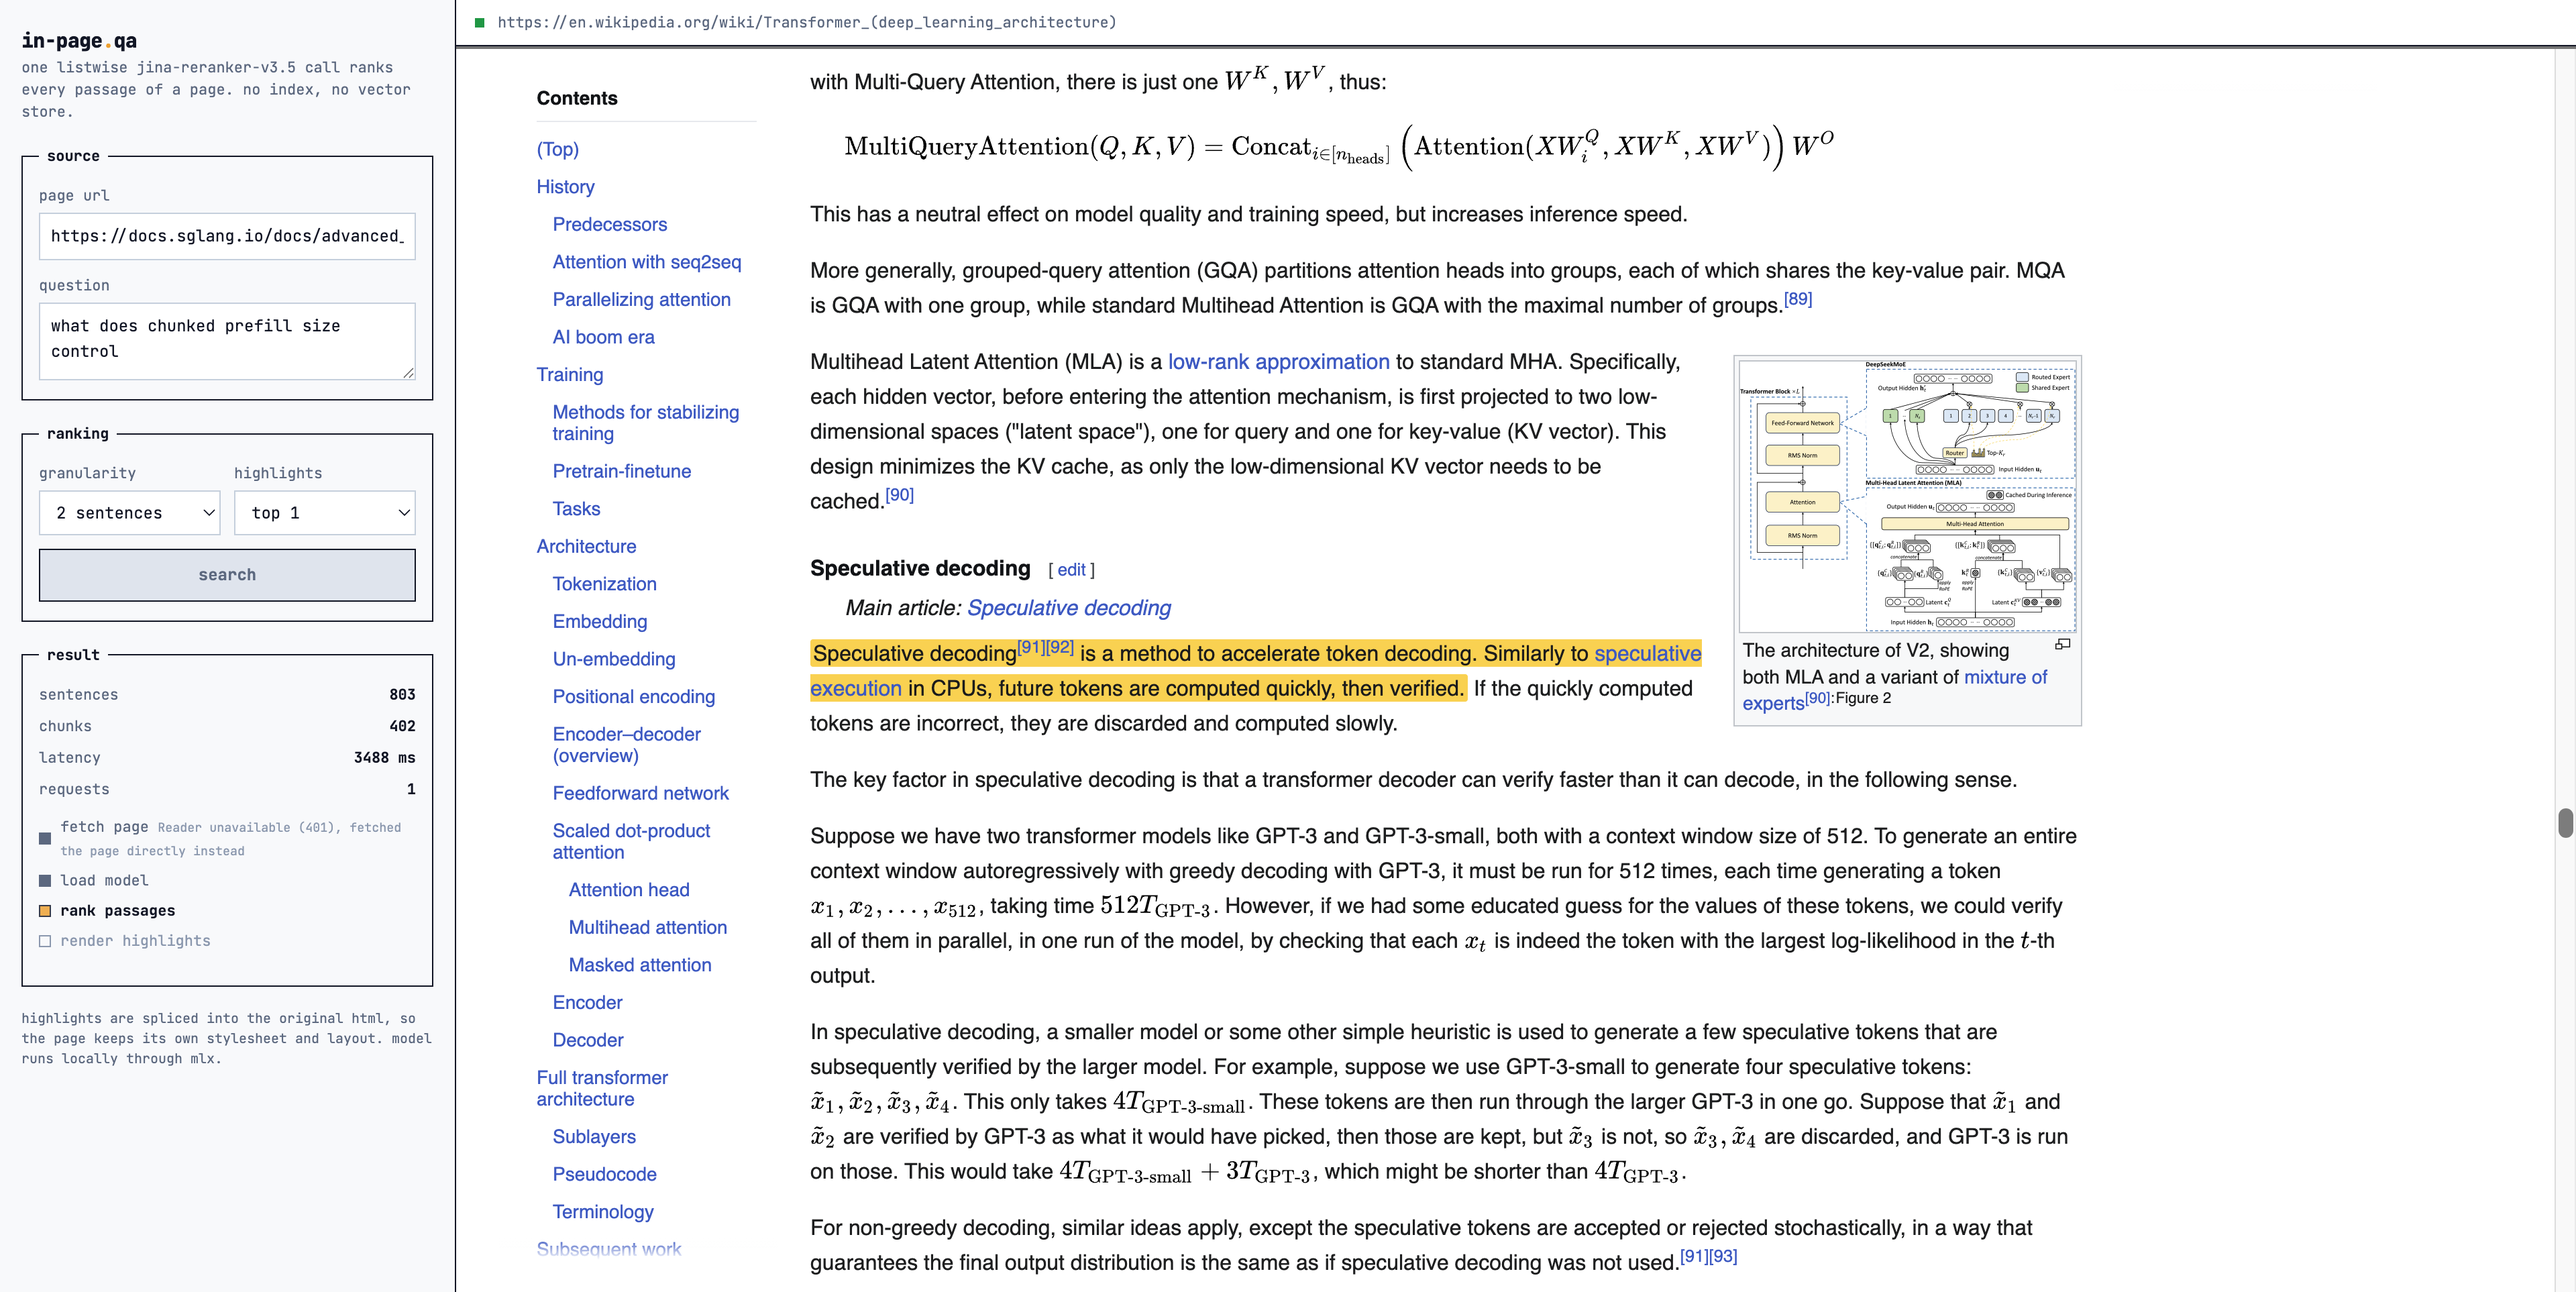
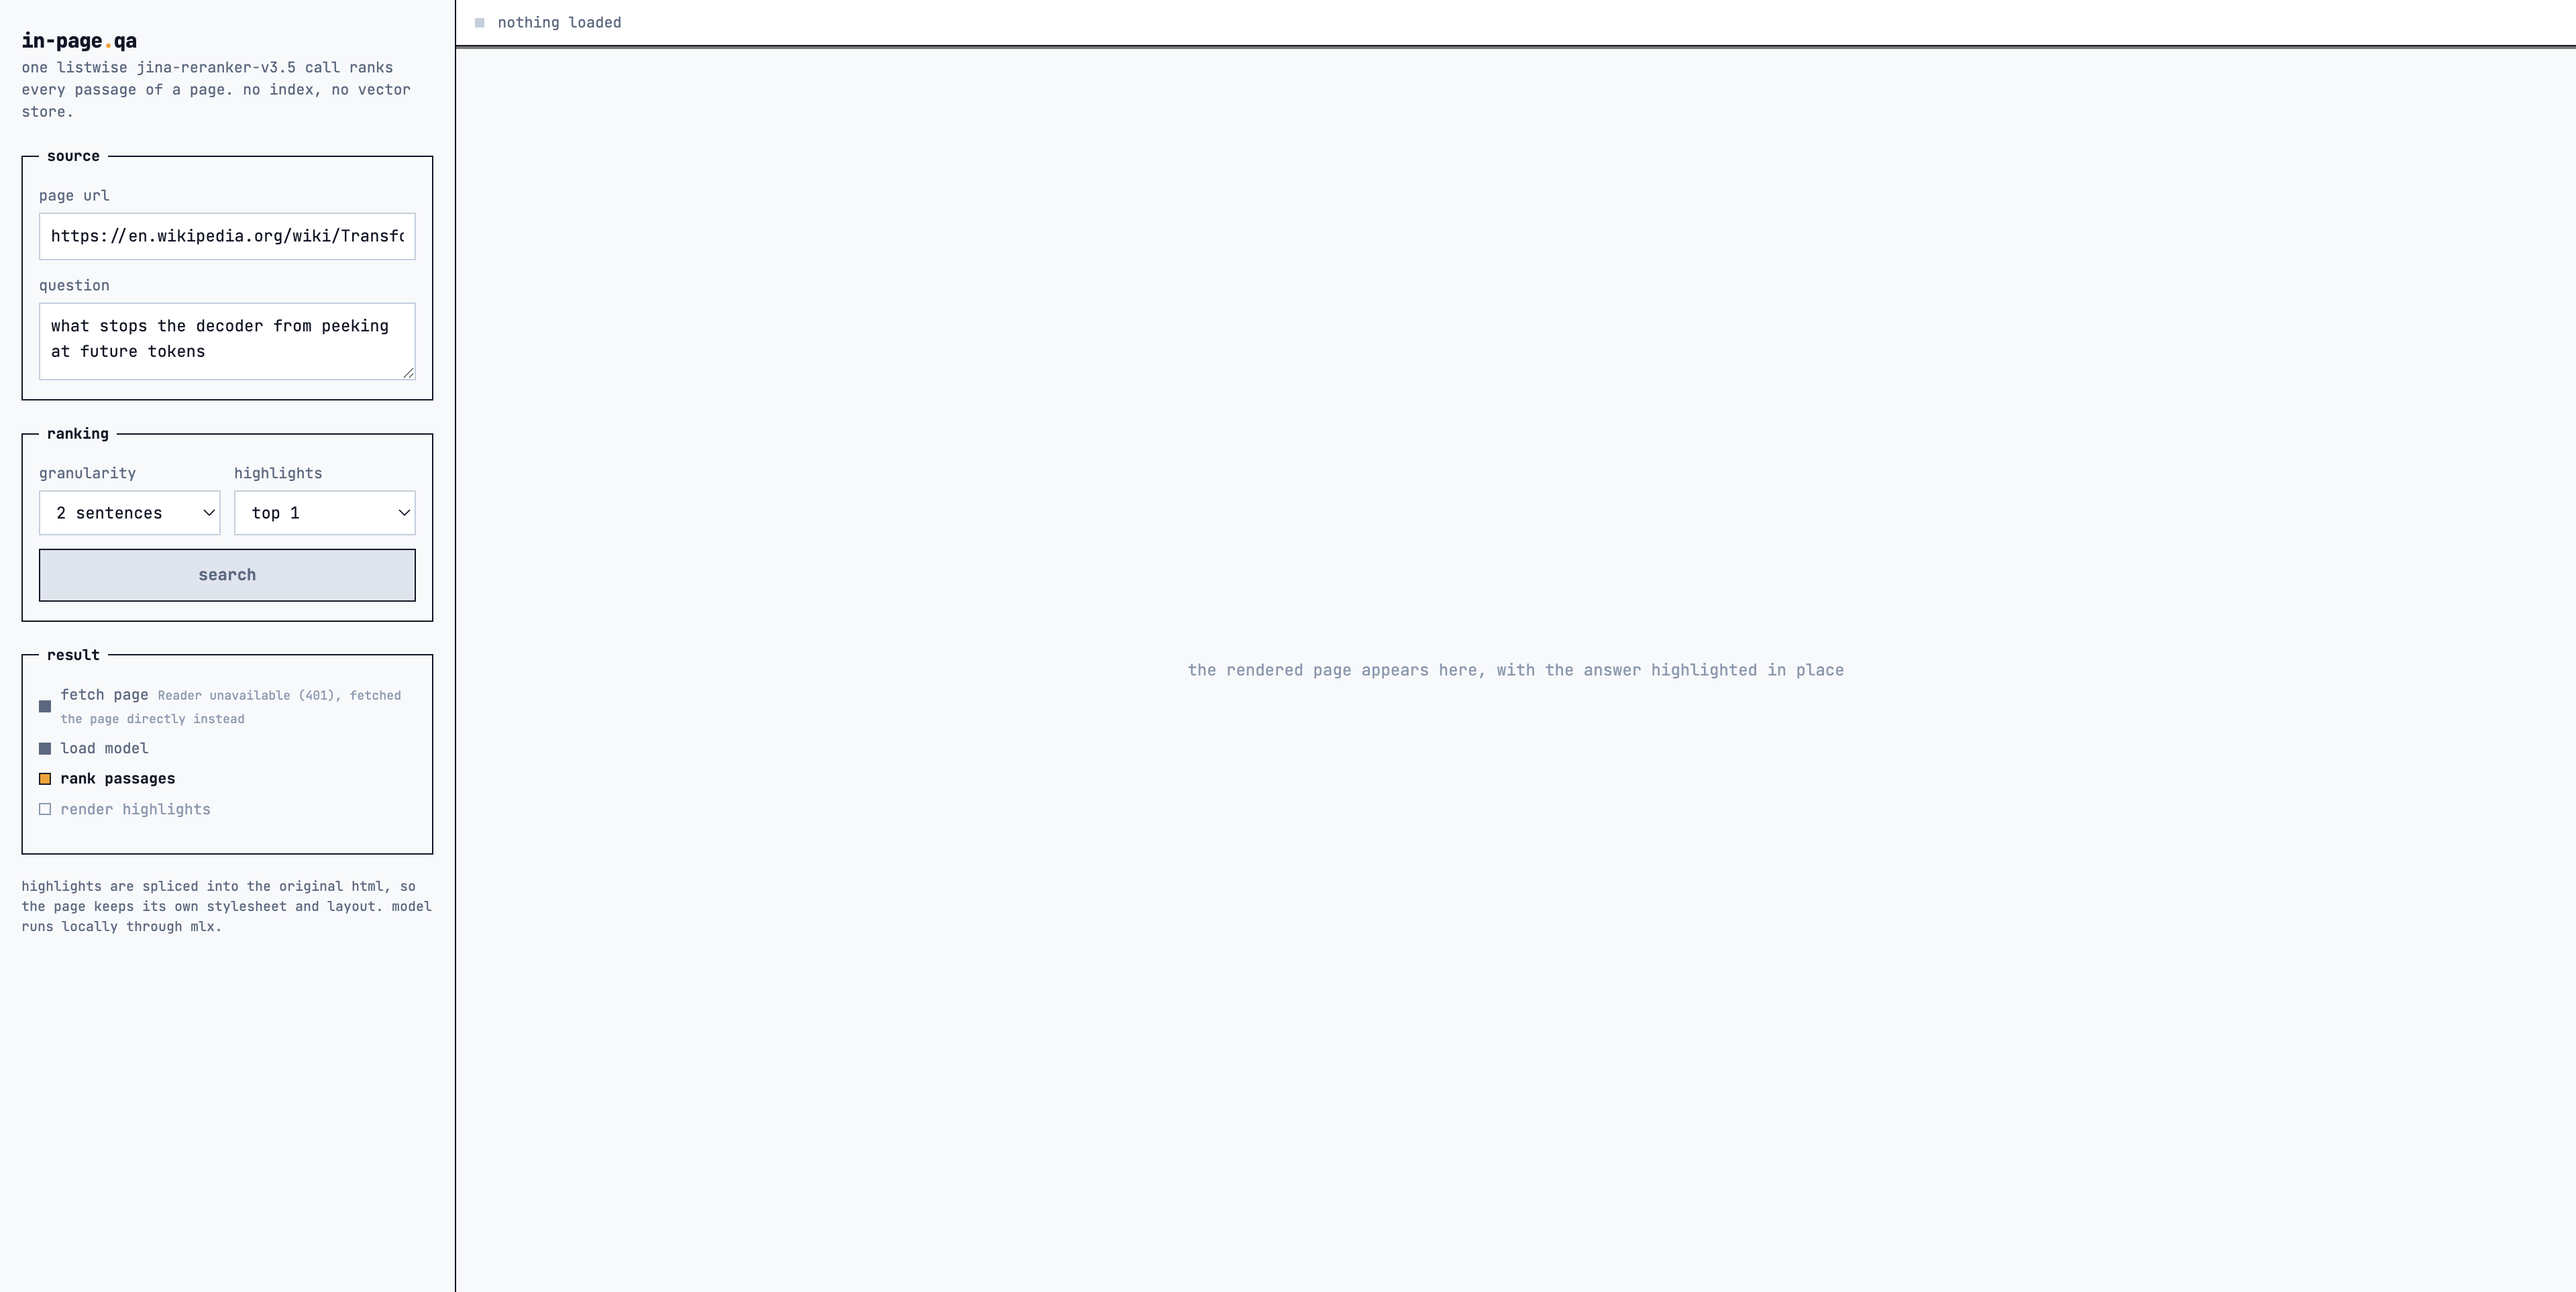
Keep the result panel out of the way until there is a result
It used to sit there from first paint showing four em dashes, which is a box
that takes up space to say nothing. It now appears with the progress list when
a search starts, and the statistics inside it only once they have values, so
nothing on screen is a placeholder.

diff --git a/inpage/static/index.html b/inpage/static/index.html
@@ -41,6 +41,8 @@
     margin: 0; padding: 12px 12px 14px;
     display: flex; flex-direction: column; gap: 10px;
   }
+  /* display:flex would otherwise beat the hidden attribute */
+  fieldset[hidden] { display: none; }
   legend { padding: 0 6px; font-size: 11px; font-weight: 700; }
 
   label.row { display: flex; flex-direction: column; gap: 4px; font-size: 11px; color: var(--muted); }
@@ -66,6 +68,7 @@
   .stat dt { color: var(--muted); }
   .stat dd { margin: 0; font-weight: 700; }
   dl { margin: 0; display: flex; flex-direction: column; gap: 6px; }
+  dl[hidden] { display: none; }
 
   .hit { border-left: 3px solid var(--accent); padding: 6px 0 6px 8px; font-size: 11px; cursor: pointer; }
   .hit + .hit { margin-top: 8px; }
@@ -168,13 +171,14 @@
     </fieldset>
   </form>
 
-  <fieldset>
+  <!-- Hidden until a search runs; an empty box of em dashes says nothing. -->
+  <fieldset id="result" hidden>
     <legend>result</legend>
-    <dl>
-      <div class="stat"><dt>sentences</dt><dd id="s-sent">&mdash;</dd></div>
-      <div class="stat"><dt>chunks</dt><dd id="s-chunk">&mdash;</dd></div>
-      <div class="stat"><dt>latency</dt><dd id="s-ms">&mdash;</dd></div>
-      <div class="stat"><dt>requests</dt><dd id="s-req">&mdash;</dd></div>
+    <dl id="stats" hidden>
+      <div class="stat"><dt>sentences</dt><dd id="s-sent"></dd></div>
+      <div class="stat"><dt>chunks</dt><dd id="s-chunk"></dd></div>
+      <div class="stat"><dt>latency</dt><dd id="s-ms"></dd></div>
+      <div class="stat"><dt>requests</dt><dd id="s-req"></dd></div>
     </dl>
     <div class="steps" id="steps" hidden></div>
     <div class="legendbar" id="legend" hidden></div>
@@ -264,6 +268,10 @@
     $('hits').innerHTML = '';
     $('legend').hidden = true;
 
+    // The panel appears with the progress list and stays for the result.
+    $('result').hidden = false;
+    $('stats').hidden = true;
+
     const notes = {};
     let active = 0;
     $('steps').hidden = false;
@@ -311,6 +319,7 @@
           ?.scrollIntoView({ block: 'center' });
       }, { once: true });
 
+      $('stats').hidden = false;
       setText('s-sent', data.sentences);
       setText('s-chunk', data.chunks);
       setText('s-ms', data.elapsed_ms + ' ms');
